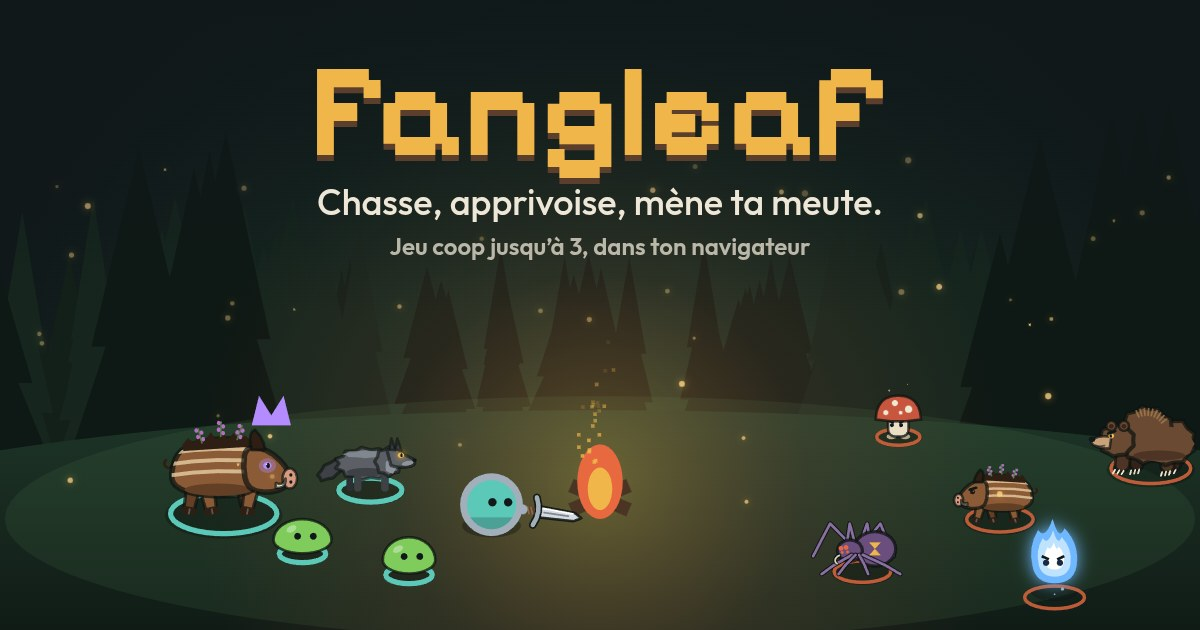
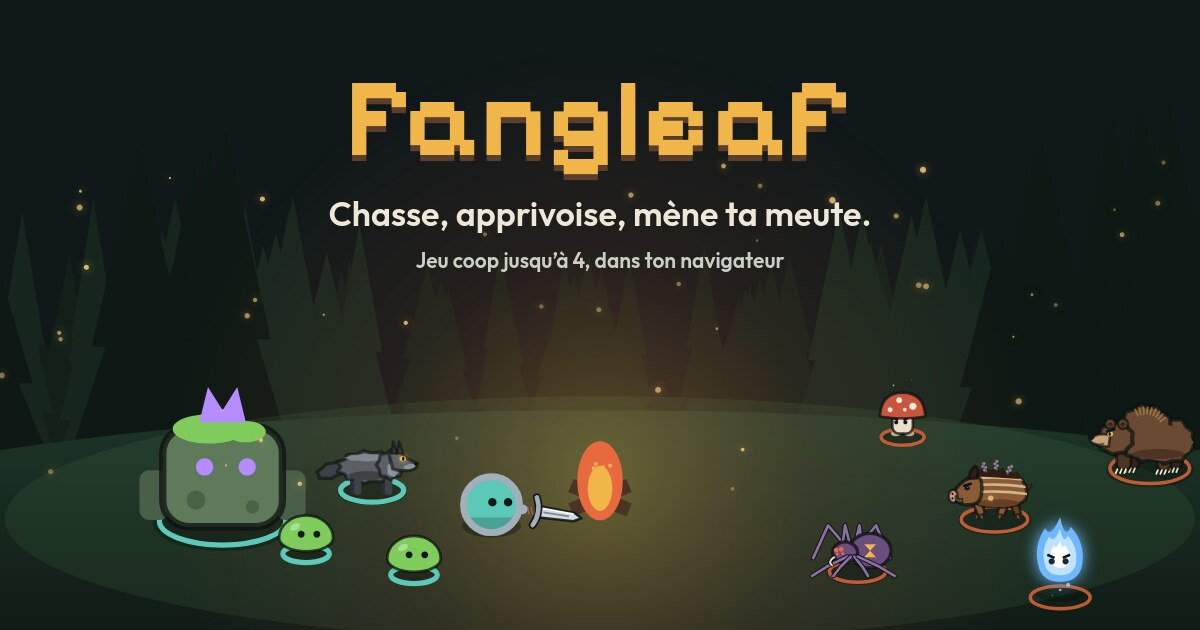
Doc : PLAN.md remplacé par ARCHITECTURE.md (stack, arborescence, flux réseau) ; aperçu des liens refait (jusqu'à 4, scène actuelle) avec sa page de génération

diff --git a/client/og.html b/client/og.html
@@ -1,0 +1,34 @@
+<!doctype html>
+<!--
+  Image d'aperçu des liens partagés (client/public/og.jpg, 1200×630) : la scène du lobby et le titre.
+  Page de dev seulement (absente du build). Pour la refaire : npm run dev, puis
+  firefox --headless --window-size=1200,630 --screenshot og.png http://localhost:5173/og.html
+  magick og.png -quality 88 client/public/og.jpg
+-->
+<html lang="fr">
+<head>
+  <meta charset="utf-8">
+  <title>Fangleaf · aperçu</title>
+  <link href="https://fonts.googleapis.com/css2?family=Pixelify+Sans:wght@700&family=Outfit:wght@500;600&display=block" rel="stylesheet">
+  <style>
+    html, body { margin: 0; width: 1200px; height: 630px; overflow: hidden; background: #10181A; }
+    #lobby-scene { position: fixed; inset: 0; width: 100%; height: 100%; }
+    header { position: relative; padding-top: 62px; text-align: center; font-family: 'Outfit', sans-serif; }
+    h1 { margin: 0; font: 700 112px/1 'Pixelify Sans', sans-serif; color: #F0B64A; letter-spacing: 2px; text-shadow: 0 6px 0 #5B3F2C; }
+    p { margin: 18px 0 0; font-size: 34px; font-weight: 600; color: #EEE7D7; }
+    p + p { margin-top: 12px; font-size: 21px; color: #C9CFC2; }
+  </style>
+</head>
+<body>
+  <canvas id="lobby-scene" aria-hidden="true"></canvas>
+  <header>
+    <h1>Fangleaf</h1>
+    <p>Chasse, apprivoise, mène ta meute.</p>
+    <p>Jeu coop jusqu’à 4, dans ton navigateur</p>
+  </header>
+  <script type="module">
+    import { startLobbyScene } from './src/lobbyScene.ts';
+    startLobbyScene(document.getElementById('lobby-scene'), () => true);
+  </script>
+</body>
+</html>

diff --git a/client/index.html b/client/index.html
@@ -11,7 +11,7 @@
   <meta property="og:title" content="Fangleaf">
   <meta property="og:description" content="Chasse, apprivoise, mène ta meute. Jeu coop jusqu'à 4, dans ton navigateur.">
   <meta property="og:url" content="https://fangleaf.anathos.me/">
-  <meta property="og:image" content="https://fangleaf.anathos.me/og.jpg">
+  <meta property="og:image" content="https://fangleaf.anathos.me/og.jpg?v=2">
   <meta property="og:image:width" content="1200">
   <meta property="og:image:height" content="630">
   <meta property="og:image:alt" content="Fangleaf : un dompteur, son Alpha et sa meute autour d'un feu de camp, face aux monstres de la forêt">

diff --git a/docs/ARCHITECTURE.md b/docs/ARCHITECTURE.md
@@ -1,0 +1,72 @@
+# Fangleaf — Architecture
+
+Jeu coop top-down façon *Wild Tamer*, jusqu'à 4 joueurs par village, dans le navigateur.
+Les règles et l'équilibrage (espèces, coûts, zones…) sont dans `shared/config.ts` : ce document n'en recopie aucun chiffre.
+
+## Choix du stack
+
+Contraintes de départ : coop en ligne entre amis (un lien d'invitation, rien à installer), itération rapide,
+des centaines d'unités à simuler (meutes de 4 joueurs et monstres sauvages).
+
+| Option | Pour | Contre | Verdict |
+|---|---|---|---|
+| Godot 4 (GDScript + ENet / WebRTC) | Éditeur complet, export natif et web | Export web lourd, multijoueur web via WebRTC/relais pénible | Si un jour on vise Steam ou le mobile natif |
+| Unity + Netcode | Écosystème énorme | Lourd pour de la 2D, build web lent, licence | Non |
+| Phaser + Colyseus | Moteur 2D mature, salons prêts | Deux frameworks ; l'état synchronisé de Colyseus impose son modèle | Piste d'évolution |
+| **TypeScript partout : Canvas 2D + Node `ws`** | Une seule langue, types partagés client/serveur, peu de dépendances, rendu procédural sans assets | Interpolation, salons et filtrage par distance écrits à la main | **Retenu** |
+
+- **Langage** : TypeScript partout. `shared/` est importé tel quel par le client et le serveur.
+- **Client** : Vite, Canvas 2D (sprites, terrain, effets, ciel : tout est dessiné, aucune image), HUD en HTML/CSS, son et musique synthétisés (Web Audio).
+- **Serveur** : Node 24 + `ws`, **autoritaire** pour tout ce qui compte (IA, dégâts, or, apprivoisement, achats) à 20 ticks/s.
+  Le déplacement du joueur vient du client (contrôles instantanés) et le serveur le borne à la vitesse maximale : suffisant en coop entre amis.
+- **Persistance** : Supabase (Postgres + connexion Google). Le serveur est le seul à écrire, avec la clé `service_role`.
+- **Déploiement** : un seul process Node sert le build statique et le WebSocket (VPS derrière nginx).
+
+Pistes d'évolution : Pixi ou Phaser pour le rendu si de vrais sprites arrivent, snapshots binaires si la bande passante devient un sujet.
+
+## Arborescence
+
+```
+shared/    config.ts      règles et équilibrage (espèces, coûts, zones, bâtiments)
+           worldmap.ts    l'île générée par graine : zones, lacs, grottes, obstacles, chemins
+           protocol.ts    messages du WebSocket
+           snapshot.ts    envoi différentiel des snapshots (même règle des deux côtés)
+           weather.ts     jour, nuit, averses et tempêtes, tirés de l'heure et de la graine du village
+           math.ts        bruit, hasard à graine
+server/    index.ts       HTTP (build statique en prod), WebSocket /ws, salons, boucle de simulation
+           room.ts        simulation d'un village : IA, combat, meutes, géants, économie
+           grid.ts        hash spatial (voisinage sans O(n²))
+           persist.ts     sauvegarde Supabase : villages et progression par (compte, village)
+client/    index.html     lobby, HUD et panneaux
+           og.html        page de dev qui produit l'aperçu des liens (public/og.jpg)
+           src/main.ts    lobby : créer ou rejoindre un village
+           src/game.ts    boucle de jeu : prédiction locale, rendu, événements
+           src/net.ts     WebSocket et interpolation
+           src/hud.ts     HUD et panneaux (forge, Tanière, marché, Hôtel de ville…)
+           src/world.ts, sprites.ts, caves.ts, fx.ts, anim.ts, sky.ts, fog.ts   rendu
+           src/audio.ts, music.ts, sfx.ts                                      son
+supabase/  migrations SQL (npm run db:migrate)
+tests/     tests de règles par thème (tests/rules/*.test.ts) et leurs outils (helpers.ts)
+scripts/   test de fumée multi-clients (smoke.ts), migrations
+deploy/    service systemd, nginx, script de déploiement (lancé par .github/workflows/cd.yml)
+```
+
+## Flux réseau
+
+1. Le client envoie `create` (fonder un village) ou `join` (rejoindre par son code), avec son jeton de session Supabase ; le serveur répond `welcome` : id du joueur, code, graine de la carte.
+   Le client génère la même île que le serveur à partir de la graine : la carte ne passe jamais sur le réseau.
+2. Le client envoie sa position 20 fois par seconde, et ses actions (interagir, acheter, tendre un fruit…) quand elles arrivent.
+3. Le serveur simule le village à 20 ticks/s et envoie à chaque joueur un snapshot par tick :
+   - **filtré par distance** : seules les unités dans son rayon de vue ;
+   - **différentiel** : seulement ce qui a changé depuis le dernier envoi, plus la liste des unités sorties de la vue (`shared/snapshot.ts`) ;
+   - **avec les événements** du tick (coups, morts, apprivoisements, attaques annoncées…), filtrés eux aussi : un coup porté loin d'un joueur ne lui est pas envoyé.
+4. Le client reconstitue l'état complet, affiche les autres avec 100 ms de retard (interpolation) et son propre dompteur sans retard (prédiction).
+
+Le ciel (jour, nuit, météo) n'est pas transmis : client et serveur le calculent chacun à partir de l'heure et de la graine.
+
+## Tests
+
+- `npm run test:rules` : la simulation sans réseau, un fichier par thème, hasard et horloge figés (même résultat en local et en CI).
+- `npm run smoke` : le vrai serveur et 4 bots WebSocket, de la création du village jusqu'à sa suppression.
+
+La CI (`.github/workflows/ci.yml`) lance le typecheck, les deux tests et le build ; le déploiement suit quand elle passe.

diff --git a/README.md b/README.md
@@ -3,7 +3,7 @@
 MVP d'un jeu coop façon *Wild Tamer* : chasse des monstres, apprivoise-les, fais apparaître des Alphas
 qui ressuscitent, améliore ton armure à la forge du village. Jusqu'à 4 joueurs par village.
 
-Plan, périmètre et choix techniques : [docs/PLAN.md](docs/PLAN.md).
+Choix techniques, arborescence et flux réseau : [docs/ARCHITECTURE.md](docs/ARCHITECTURE.md).
 
 ## Lancer en local
 
@@ -66,7 +66,7 @@ Mise à jour : `git pull && npm ci && npm run db:migrate && npm run build && pm2
 | `npm run typecheck` | Vérification TypeScript |
 | `npm run db:migrate` | Applique les migrations Supabase manquantes (`DATABASE_URL` requis) |
 | `npm run smoke` | Test bot (autorise les invités via `ALLOW_GUESTS=1`, réservé aux tests) : création, 4 joueurs max, combat, or, forge, anti-téléportation |
-| `npm run test:rules` | Règles : dispersion de la meute, rappel, régénération, forge, éveil et renforcement des Alphas, profil |
+| `npm run test:rules` | Règles de la simulation, sans réseau (`node:test`) : un fichier par thème dans `tests/rules/` (monde, combat, meute, Alphas, géants, faune, village, réseau). Un seul fichier : `npx tsx --test tests/rules/geants.test.ts` ; un seul test : `--test-name-pattern="Marché"` ; autre graine ou autre heure : `TEST_SEED=…`, `TEST_NOW=…` |
 
 ## Contrôles
 
@@ -109,7 +109,8 @@ shared/   règles et équilibrage (config.ts), protocole réseau, maths
 server/   HTTP + WebSocket + salons (index.ts), simulation d'un village (room.ts), sauvegarde Supabase (persist.ts)
 supabase/ schéma SQL des profils
 client/   lobby, boucle de jeu, rendu Canvas procédural, HUD HTML, minicarte
-scripts/  test de fumée multi-clients
+scripts/  test de fumée multi-clients, migrations
+tests/    tests de règles par thème (tests/rules/*.test.ts) et leurs outils communs (helpers.ts)
 ```
 
 Tout l'équilibrage (PV, dégâts, zones, chance d'apprivoisement, coût de la forge…) est dans
